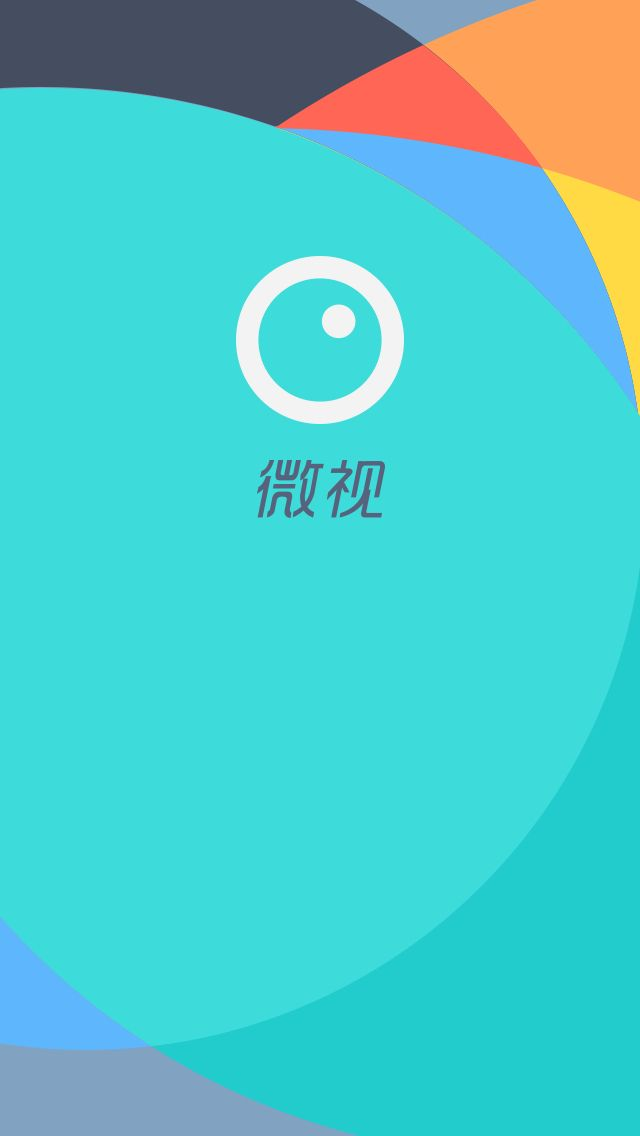
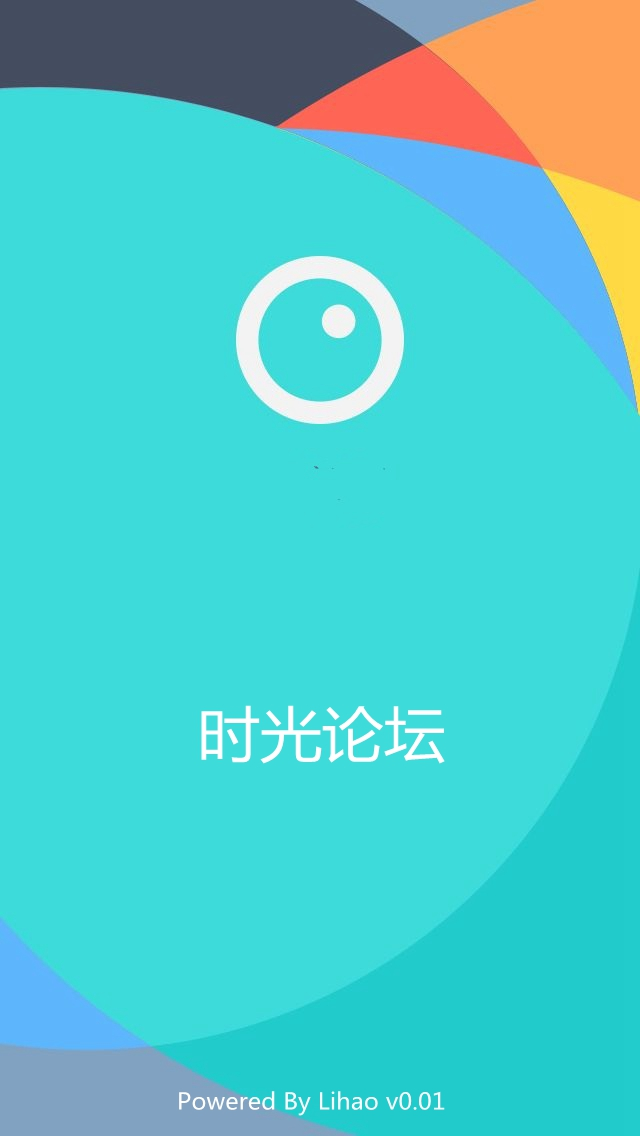
修改首页图片与App图标 --Lihao 20170517

Changed region(s): [[0.3125, 0.6162, 0.6875, 0.6778], [0.4062, 0.4005, 0.625, 0.4621], [0.2812, 0.9551, 0.6875, 0.9859]]

diff --git a/app/Main.js b/app/Main.js
@@ -81,10 +81,8 @@ class APP extends React.Component {
                                         ...configure,
                                         gestures: {}
                                     };
-                                    break;
                                 default:
                                     return configure = Navigator.SceneConfigs.PushFromRight;
-                                    break;
                             }
                         }}
                         renderScene={(route, navigator) => {

diff --git a/app/App.js b/app/App.js
@@ -90,7 +90,6 @@ class App extends React.Component {
                                 style={styles.guideView}
                             >
                                 <Banner
-                                    style={styles.guideView}
                                     dotColor="rgba(255, 255, 255, 0)"
                                     activeDotColor="rgba(255, 255, 255, 0)"
                                     loop={false}

diff --git a/app/pages/Home.js b/app/pages/Home.js
@@ -89,7 +89,6 @@ class Home extends Component {
                 }
             });
         });
-
     }
 
     renderFloatSearch() {
